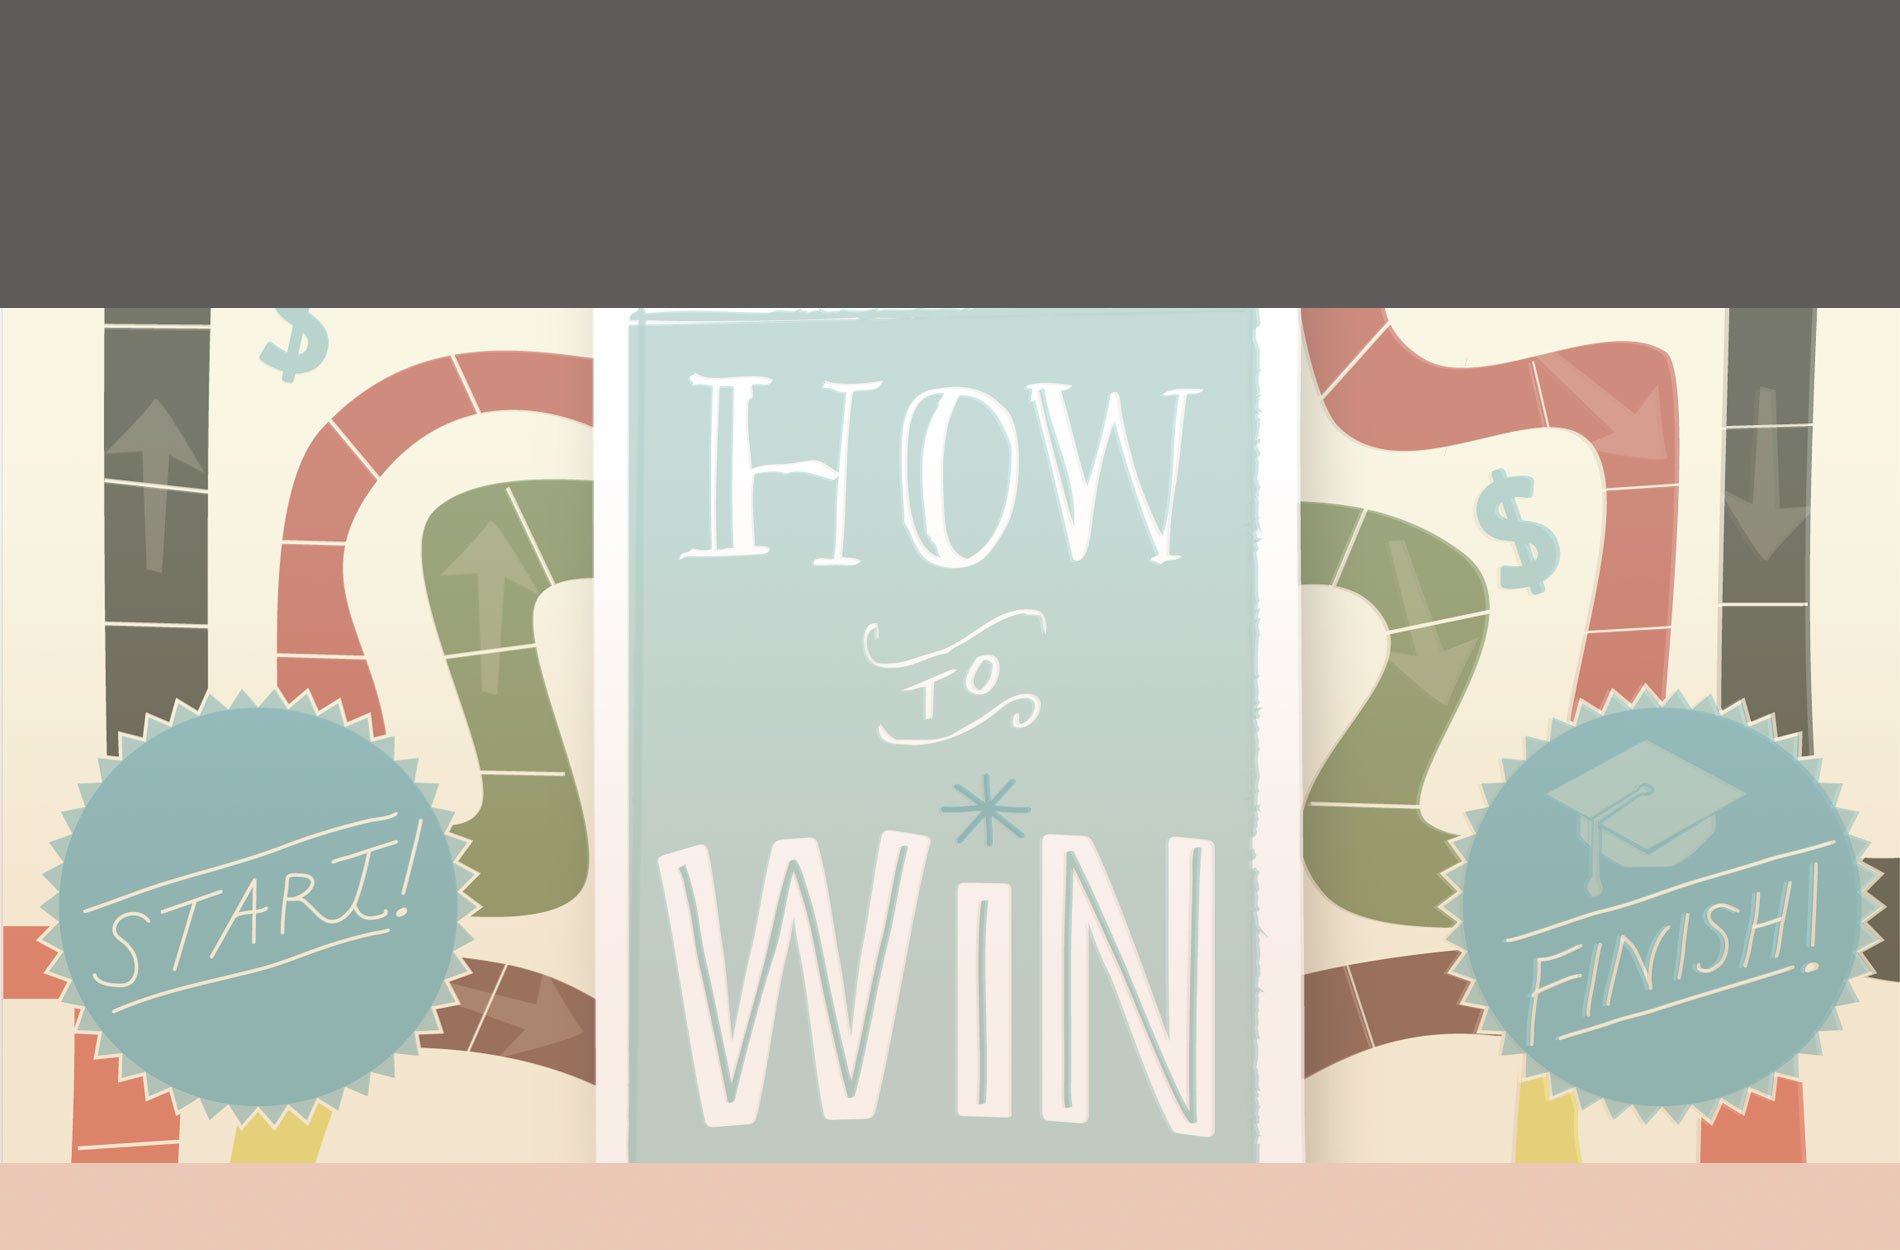
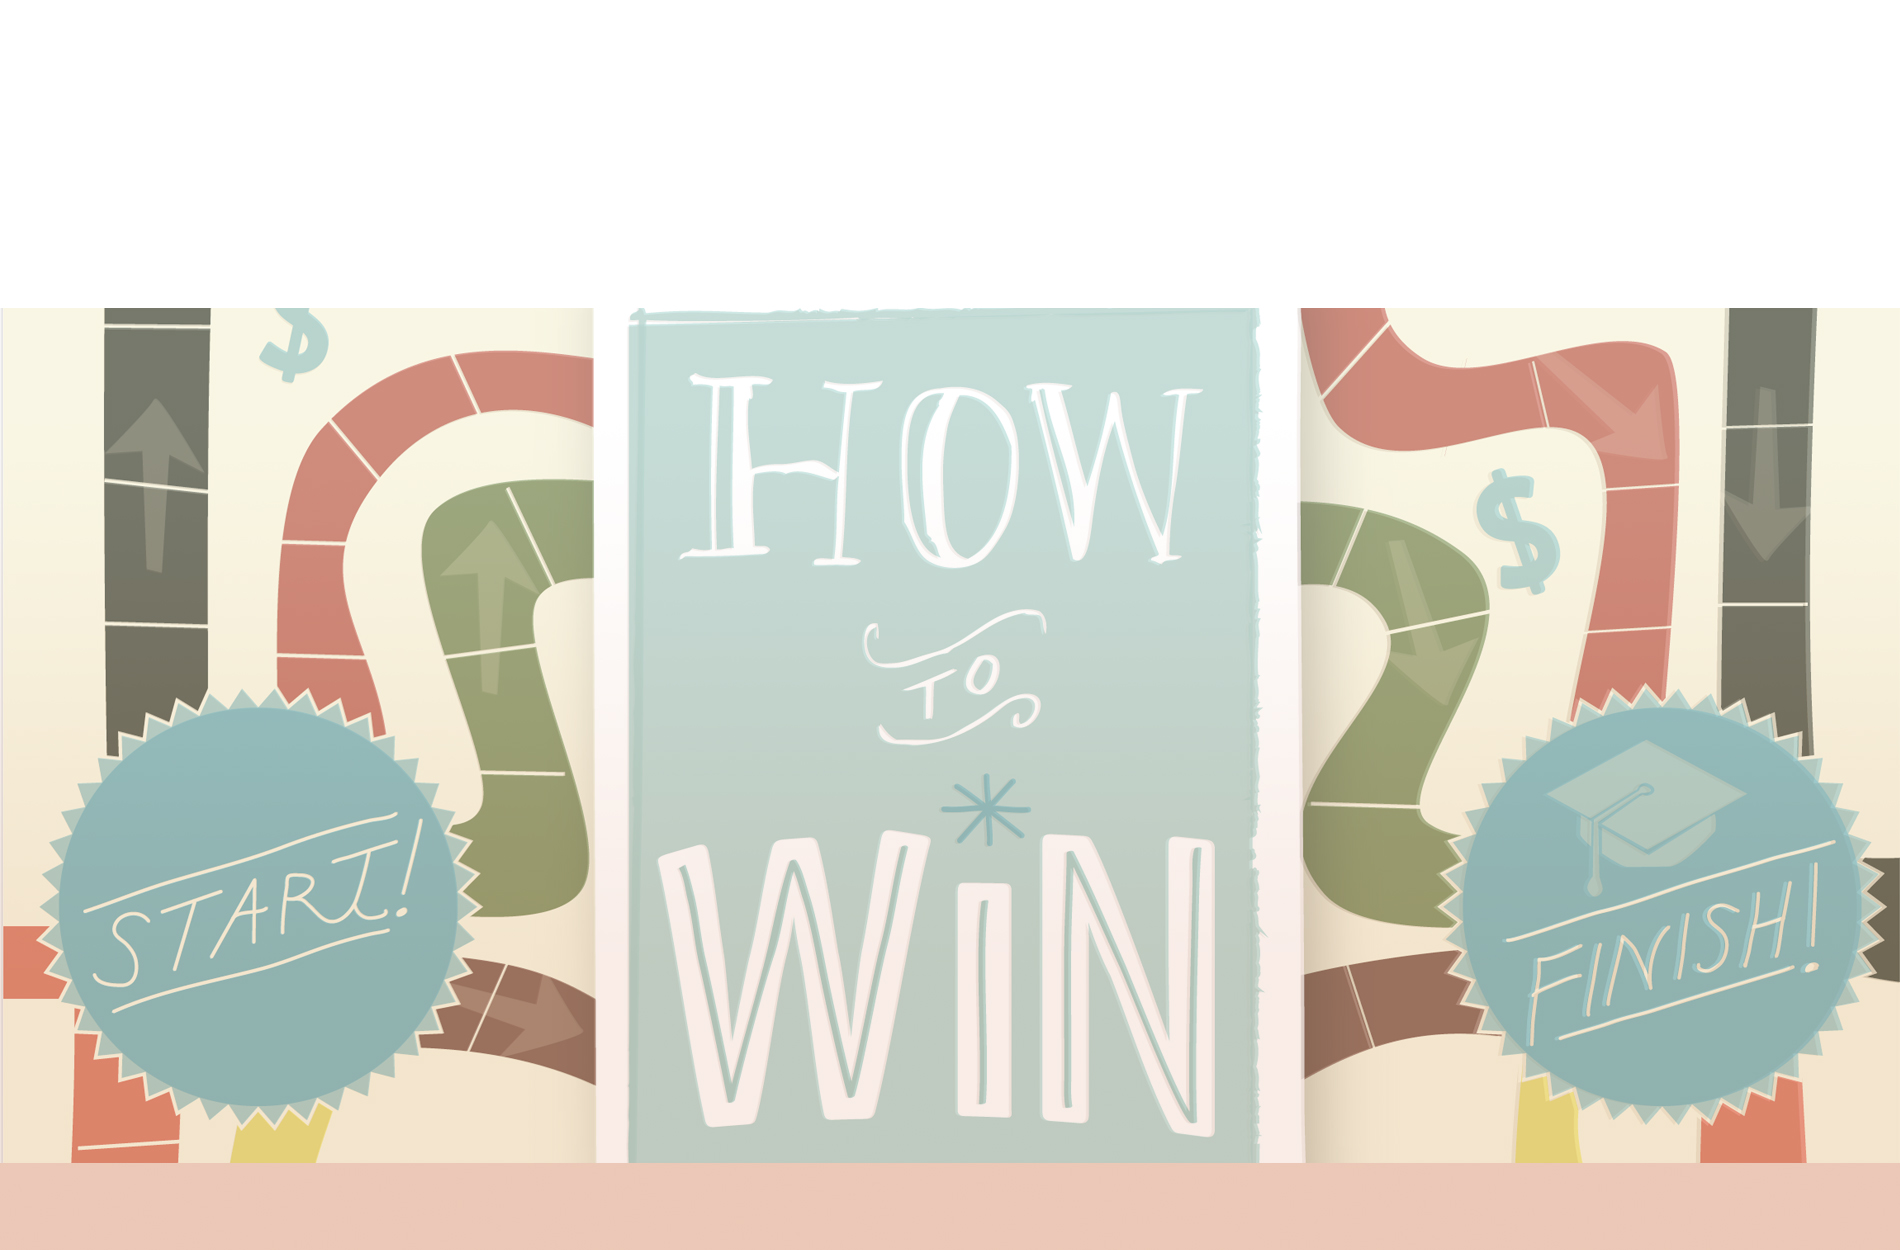
cleaned up some css meta and content

Changed region(s): [[0.0, 0.0, 1.0, 0.2496]]

diff --git a/_includes/css/agency.css b/_includes/css/agency.css
@@ -12,6 +12,7 @@ body {
 
 .text-muted {
     color: #777;
+	 line-height: 25px;
 }
 
 .text-primary {
@@ -180,6 +181,11 @@ fieldset[disabled] .btn-xl.active {
     color: #{{ site.color.primary }};
 }
 
+/*!
+ * Attempting to add media query to add a logo to name where the screen is wide enough. see existing media query farther below.
+ */
+
+
 
 .navbar-default .navbar-brand:hover,
 .navbar-default .navbar-brand:focus,
@@ -189,11 +195,7 @@ fieldset[disabled] .btn-xl.active {
 }
 
 
-/*!
- * Attempting to eventually replace the above type brand for a logo.
- */
-.logo { background : url(img/logos/dm_logo_2015_mark_only.png); 
-}
+
 
 
 .navbar-default .navbar-collapse {
@@ -219,7 +221,7 @@ fieldset[disabled] .btn-xl.active {
     font-family: Montserrat,"Helvetica Neue",Helvetica,Arial,sans-serif;
     font-weight: 400;
     letter-spacing: 1px;
-    color: #fff;
+    color: #333;
 }
 
 .navbar-default .nav li a:hover,
@@ -250,11 +252,14 @@ fieldset[disabled] .btn-xl.active {
         transition: padding .3s;
     }
 
+
     .navbar-default .navbar-brand {
-        font-size: 2em;
+        font-size: 2.5em;
         -webkit-transition: all .3s;
         -moz-transition: all .3s;
         transition: all .3s;
+		background: url(img/logos/dm_logo_2015_mark_only.png) left center no-repeat;
+		background-size: 50px 50px;
     }
 
     .navbar-default .navbar-nav>.active>a {
@@ -263,7 +268,7 @@ fieldset[disabled] .btn-xl.active {
 
     .navbar-default.navbar-shrink {
         padding: 10px 0;
-        background-color: #222;
+        background-color: #fff;
     }
 
     .navbar-default.navbar-shrink .navbar-brand {

diff --git a/_site/style.css b/_site/style.css
@@ -19,6 +19,7 @@ body {
 
 .text-muted {
     color: #777;
+	 line-height: 25px;
 }
 
 .text-primary {
@@ -187,6 +188,11 @@ fieldset[disabled] .btn-xl.active {
     color: #ebc8b7;
 }
 
+/*!
+ * Attempting to add media query to add a logo to name where the screen is wide enough. see existing media query farther below.
+ */
+
+
 
 .navbar-default .navbar-brand:hover,
 .navbar-default .navbar-brand:focus,
@@ -196,11 +202,7 @@ fieldset[disabled] .btn-xl.active {
 }
 
 
-/*!
- * Attempting to eventually replace the above type brand for a logo.
- */
-.logo { background : url(img/logos/dm_logo_2015_mark_only.png); 
-}
+
 
 
 .navbar-default .navbar-collapse {
@@ -226,7 +228,7 @@ fieldset[disabled] .btn-xl.active {
     font-family: Montserrat,"Helvetica Neue",Helvetica,Arial,sans-serif;
     font-weight: 400;
     letter-spacing: 1px;
-    color: #fff;
+    color: #333;
 }
 
 .navbar-default .nav li a:hover,
@@ -257,11 +259,14 @@ fieldset[disabled] .btn-xl.active {
         transition: padding .3s;
     }
 
+
     .navbar-default .navbar-brand {
-        font-size: 2em;
+        font-size: 2.5em;
         -webkit-transition: all .3s;
         -moz-transition: all .3s;
         transition: all .3s;
+		background: url(img/logos/dm_logo_2015_mark_only.png) left center no-repeat;
+		background-size: 50px 50px;
     }
 
     .navbar-default .navbar-nav>.active>a {
@@ -270,7 +275,7 @@ fieldset[disabled] .btn-xl.active {
 
     .navbar-default.navbar-shrink {
         padding: 10px 0;
-        background-color: #222;
+        background-color: #fff;
     }
 
     .navbar-default.navbar-shrink .navbar-brand {

diff --git a/_site/2015/07/25/prepress-1/index.html b/_site/2015/07/25/prepress-1/index.html
@@ -103,7 +103,7 @@
             <div class="row">
                 <div class="col-lg-12 text-center">
                     <h2 class="section-heading">Services</h2>
-                    <h3 class="section-subheading text-muted">Hello! I'm Designer in the Mid-Atlantic region specializing in educational and higher ed design. After a ten-year immersion in print, I've returned to web development! Jekyll looked unique, refreshing and offered lots of tutorials and beautiful templates like this one.</h3>
+                    <h3 class="section-subheading text-muted">Hello! I'm Designer in the Mid-Atlantic region specializing in educational and higher ed design. <br>After a ten-year immersion in print, I've returned to web development! <i class="fa fa-meh-o"></i> <br> Jekyll looked unique, refreshing and offered lots of tutorials and beautiful templates like this one.</h3>
                 </div>
             </div>
             <div class="row text-center">
@@ -198,7 +198,7 @@
             <div class="row">
                 <div class="col-lg-12 text-center">
                     <h2 class="section-heading">Contact Us</h2>
-                    <h3 class="section-subheading text-muted">This message section hasn't been set up yet. Please contact me via the social media links in the footer. Thanks for stopping by!</h3>
+                    <h3 class="section-subheading text-muted">This message section hasn't been set up yet. <br> Please contact me via the social media links in the footer. Thanks for stopping by!</h3>
                 </div>
             </div>
             <div class="row">

diff --git a/_site/index.html b/_site/index.html
@@ -103,7 +103,7 @@
             <div class="row">
                 <div class="col-lg-12 text-center">
                     <h2 class="section-heading">Services</h2>
-                    <h3 class="section-subheading text-muted">Hello! I'm Designer in the Mid-Atlantic region specializing in educational and higher ed design. After a ten-year immersion in print, I've returned to web development! Jekyll looked unique, refreshing and offered lots of tutorials and beautiful templates like this one.</h3>
+                    <h3 class="section-subheading text-muted">Hello! I'm Designer in the Mid-Atlantic region specializing in educational and higher ed design. <br>After a ten-year immersion in print, I've returned to web development! <i class="fa fa-meh-o"></i> <br> Jekyll looked unique, refreshing and offered lots of tutorials and beautiful templates like this one.</h3>
                 </div>
             </div>
             <div class="row text-center">
@@ -198,7 +198,7 @@
             <div class="row">
                 <div class="col-lg-12 text-center">
                     <h2 class="section-heading">Contact Us</h2>
-                    <h3 class="section-subheading text-muted">This message section hasn't been set up yet. Please contact me via the social media links in the footer. Thanks for stopping by!</h3>
+                    <h3 class="section-subheading text-muted">This message section hasn't been set up yet. <br> Please contact me via the social media links in the footer. Thanks for stopping by!</h3>
                 </div>
             </div>
             <div class="row">

diff --git a/_site/web development/2014/07/17/project-2/index.html b/_site/web development/2014/07/17/project-2/index.html
@@ -103,7 +103,7 @@
             <div class="row">
                 <div class="col-lg-12 text-center">
                     <h2 class="section-heading">Services</h2>
-                    <h3 class="section-subheading text-muted">Hello! I'm Designer in the Mid-Atlantic region specializing in educational and higher ed design. After a ten-year immersion in print, I've returned to web development! Jekyll looked unique, refreshing and offered lots of tutorials and beautiful templates like this one.</h3>
+                    <h3 class="section-subheading text-muted">Hello! I'm Designer in the Mid-Atlantic region specializing in educational and higher ed design. <br>After a ten-year immersion in print, I've returned to web development! <i class="fa fa-meh-o"></i> <br> Jekyll looked unique, refreshing and offered lots of tutorials and beautiful templates like this one.</h3>
                 </div>
             </div>
             <div class="row text-center">
@@ -198,7 +198,7 @@
             <div class="row">
                 <div class="col-lg-12 text-center">
                     <h2 class="section-heading">Contact Us</h2>
-                    <h3 class="section-subheading text-muted">This message section hasn't been set up yet. Please contact me via the social media links in the footer. Thanks for stopping by!</h3>
+                    <h3 class="section-subheading text-muted">This message section hasn't been set up yet. <br> Please contact me via the social media links in the footer. Thanks for stopping by!</h3>
                 </div>
             </div>
             <div class="row">

diff --git a/_site/web development/2014/07/18/project-1/index.html b/_site/web development/2014/07/18/project-1/index.html
@@ -103,7 +103,7 @@
             <div class="row">
                 <div class="col-lg-12 text-center">
                     <h2 class="section-heading">Services</h2>
-                    <h3 class="section-subheading text-muted">Hello! I'm Designer in the Mid-Atlantic region specializing in educational and higher ed design. After a ten-year immersion in print, I've returned to web development! Jekyll looked unique, refreshing and offered lots of tutorials and beautiful templates like this one.</h3>
+                    <h3 class="section-subheading text-muted">Hello! I'm Designer in the Mid-Atlantic region specializing in educational and higher ed design. <br>After a ten-year immersion in print, I've returned to web development! <i class="fa fa-meh-o"></i> <br> Jekyll looked unique, refreshing and offered lots of tutorials and beautiful templates like this one.</h3>
                 </div>
             </div>
             <div class="row text-center">
@@ -198,7 +198,7 @@
             <div class="row">
                 <div class="col-lg-12 text-center">
                     <h2 class="section-heading">Contact Us</h2>
-                    <h3 class="section-subheading text-muted">This message section hasn't been set up yet. Please contact me via the social media links in the footer. Thanks for stopping by!</h3>
+                    <h3 class="section-subheading text-muted">This message section hasn't been set up yet. <br> Please contact me via the social media links in the footer. Thanks for stopping by!</h3>
                 </div>
             </div>
             <div class="row">

diff --git a/_includes/services.html b/_includes/services.html
@@ -4,7 +4,7 @@
             <div class="row">
                 <div class="col-lg-12 text-center">
                     <h2 class="section-heading">Services</h2>
-                    <h3 class="section-subheading text-muted">Hello! I'm Designer in the Mid-Atlantic region specializing in educational and higher ed design. After a ten-year immersion in print, I've returned to web development! Jekyll looked unique, refreshing and offered lots of tutorials and beautiful templates like this one.</h3>
+                    <h3 class="section-subheading text-muted">Hello! I'm Designer in the Mid-Atlantic region specializing in educational and higher ed design. <br>After a ten-year immersion in print, I've returned to web development! <i class="fa fa-meh-o"></i> <br> Jekyll looked unique, refreshing and offered lots of tutorials and beautiful templates like this one.</h3>
                 </div>
             </div>
             <div class="row text-center">

diff --git a/_includes/contact.html b/_includes/contact.html
@@ -3,7 +3,7 @@
             <div class="row">
                 <div class="col-lg-12 text-center">
                     <h2 class="section-heading">Contact Us</h2>
-                    <h3 class="section-subheading text-muted">This message section hasn't been set up yet. Please contact me via the social media links in the footer. Thanks for stopping by!</h3>
+                    <h3 class="section-subheading text-muted">This message section hasn't been set up yet. <br> Please contact me via the social media links in the footer. Thanks for stopping by!</h3>
                 </div>
             </div>
             <div class="row">
